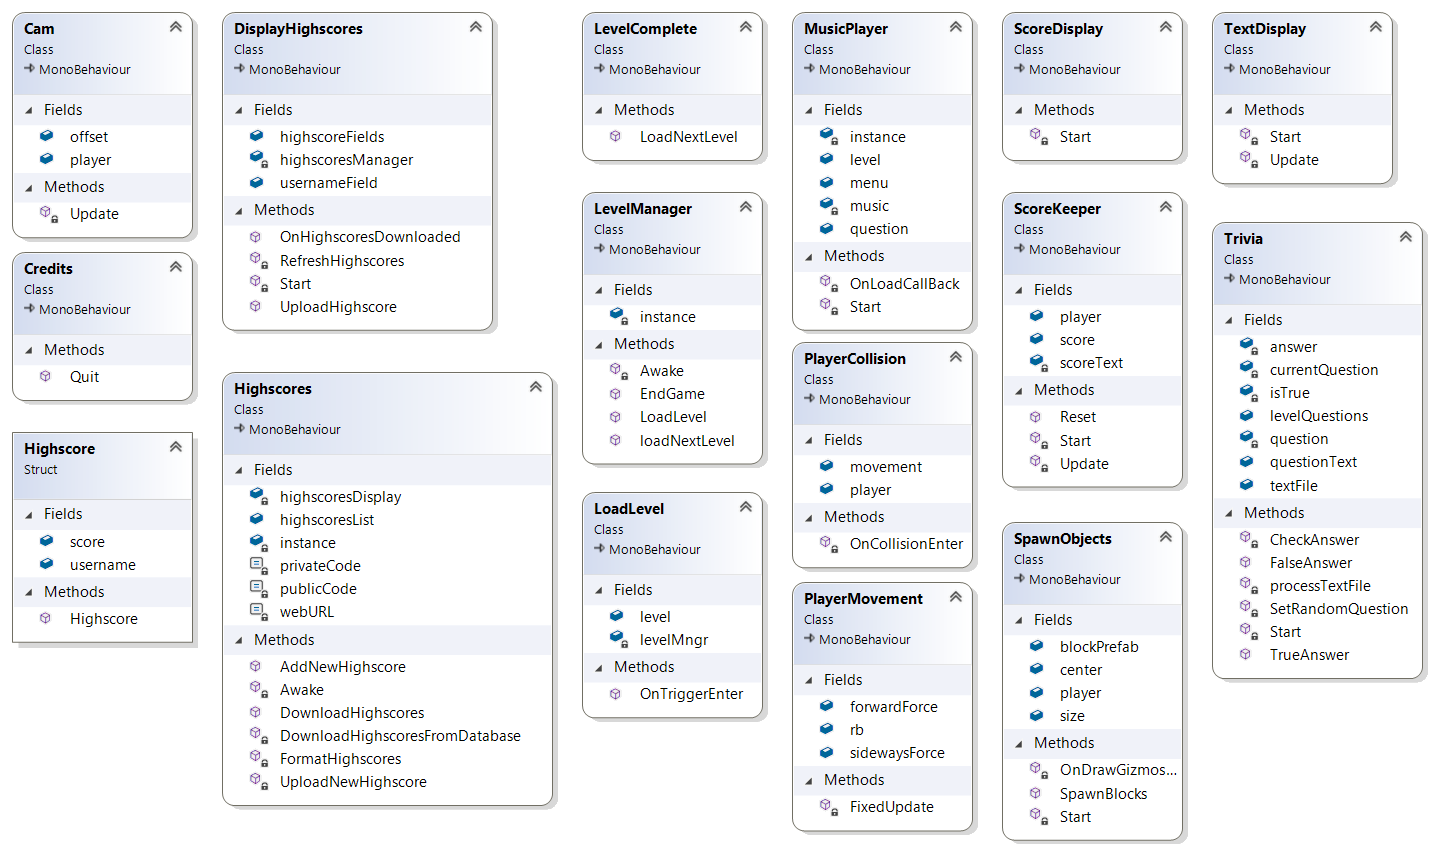
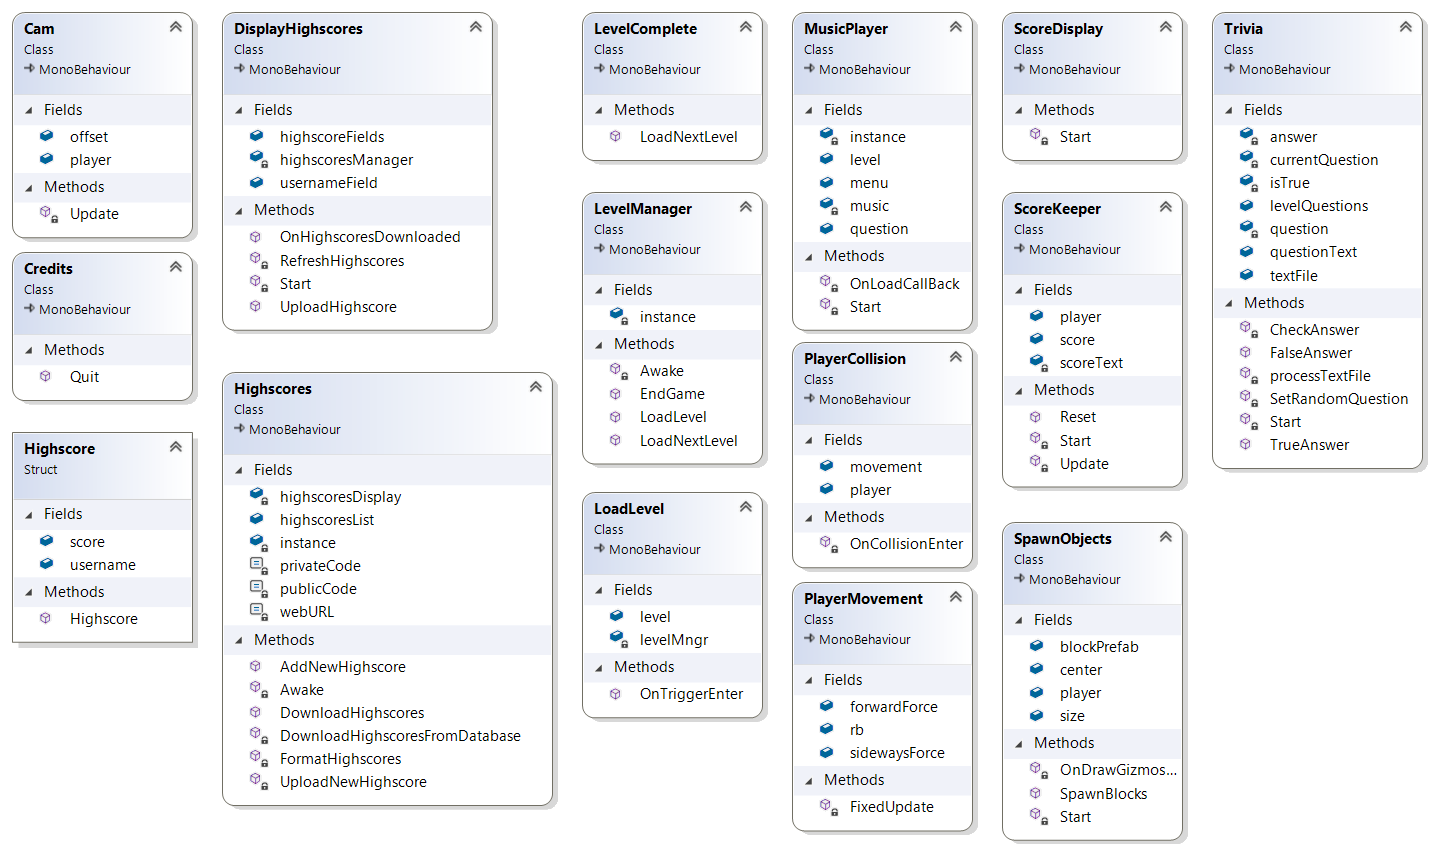
Fix leaderboard

Changed region(s): [[0.8285, 0.0, 1.0, 0.8249], [0.4603, 0.4888, 0.5216, 0.5499], [0.8591, 0.0306, 0.9205, 0.0611]]

diff --git a/Assets/Scripts/LevelManager.cs b/Assets/Scripts/LevelManager.cs
@@ -10,6 +10,10 @@ public class LevelManager : MonoBehaviour {
     public void LoadLevel(string name)
     {
         Debug.Log("New Level load: " + name);
+        if (name == "Menu")
+        {
+            ScoreKeeper.Reset();
+        }
         SceneManager.LoadScene(name);
     }
 
@@ -19,7 +23,7 @@ public class LevelManager : MonoBehaviour {
         Application.Quit();
     }
 
-    public void loadNextLevel()
+    public void LoadNextLevel()
     {
         SceneManager.LoadScene(SceneManager.GetActiveScene().buildIndex + 1);
     }

diff --git a/Assets/Scripts/ScoreKeeper.cs b/Assets/Scripts/ScoreKeeper.cs
@@ -11,8 +11,8 @@ public class ScoreKeeper : MonoBehaviour {
 	// Use this for initialization
 	void Start () {
 		//	We dynamicaly point to the Text object in our UI.
-		scoreText = GetComponent<Text> ();
-		scoreText.text = score.ToString ();
+		scoreText = GetComponent<Text>();
+		scoreText.text = score.ToString();
 	}
 	
 	// Update is called once per frame
@@ -22,6 +22,5 @@ public class ScoreKeeper : MonoBehaviour {
 
 	public static void Reset() {
 		score = 0;
-		// scoreText.text = score.ToString ();
 	}
 }

diff --git a/Assets/Scripts/Trivia.cs b/Assets/Scripts/Trivia.cs
@@ -21,11 +21,11 @@ public class Trivia : MonoBehaviour {
     // Use this for initialization
     void Start()
     {
-        processTextFile();
+        ProcessTextFile();
         SetRandomQuestion();
     }
 
-    void processTextFile()
+    void ProcessTextFile()
     {
         /* split the text file by newline characters */
         string[] lineArray = textFile.text.Split("\n"[0]);

diff --git a/Assets/Scripts/LoadLevel.cs b/Assets/Scripts/LoadLevel.cs
@@ -7,12 +7,10 @@ public class LoadLevel : MonoBehaviour {
     public string level;
     LevelManager levelMngr = new LevelManager();
 
-
     // Method is triggered when object touches the collider GO
     //Then loads the screen
     public void OnTriggerEnter(Collider collider)
     {
-        
         levelMngr.LoadLevel(level);
     }
 }

diff --git a/Assets/Scripts/ScoreDisplay.cs b/Assets/Scripts/ScoreDisplay.cs
@@ -7,8 +7,7 @@ public class ScoreDisplay : MonoBehaviour {
 
 	// Use this for initialization
 	void Start () {
-		Text scoreText = GetComponent<Text> ();
-		scoreText.text = ScoreKeeper.score.ToString ();
-		ScoreKeeper.Reset ();
+		Text scoreText = GetComponent<Text>();
+		scoreText.text = ScoreKeeper.score.ToString();
 	}
 }

diff --git a/Assets/Scripts/Highscores.cs b/Assets/Scripts/Highscores.cs
@@ -86,5 +86,4 @@ public struct Highscore
         username = _username;
         score = _score;
     }
-
 }
